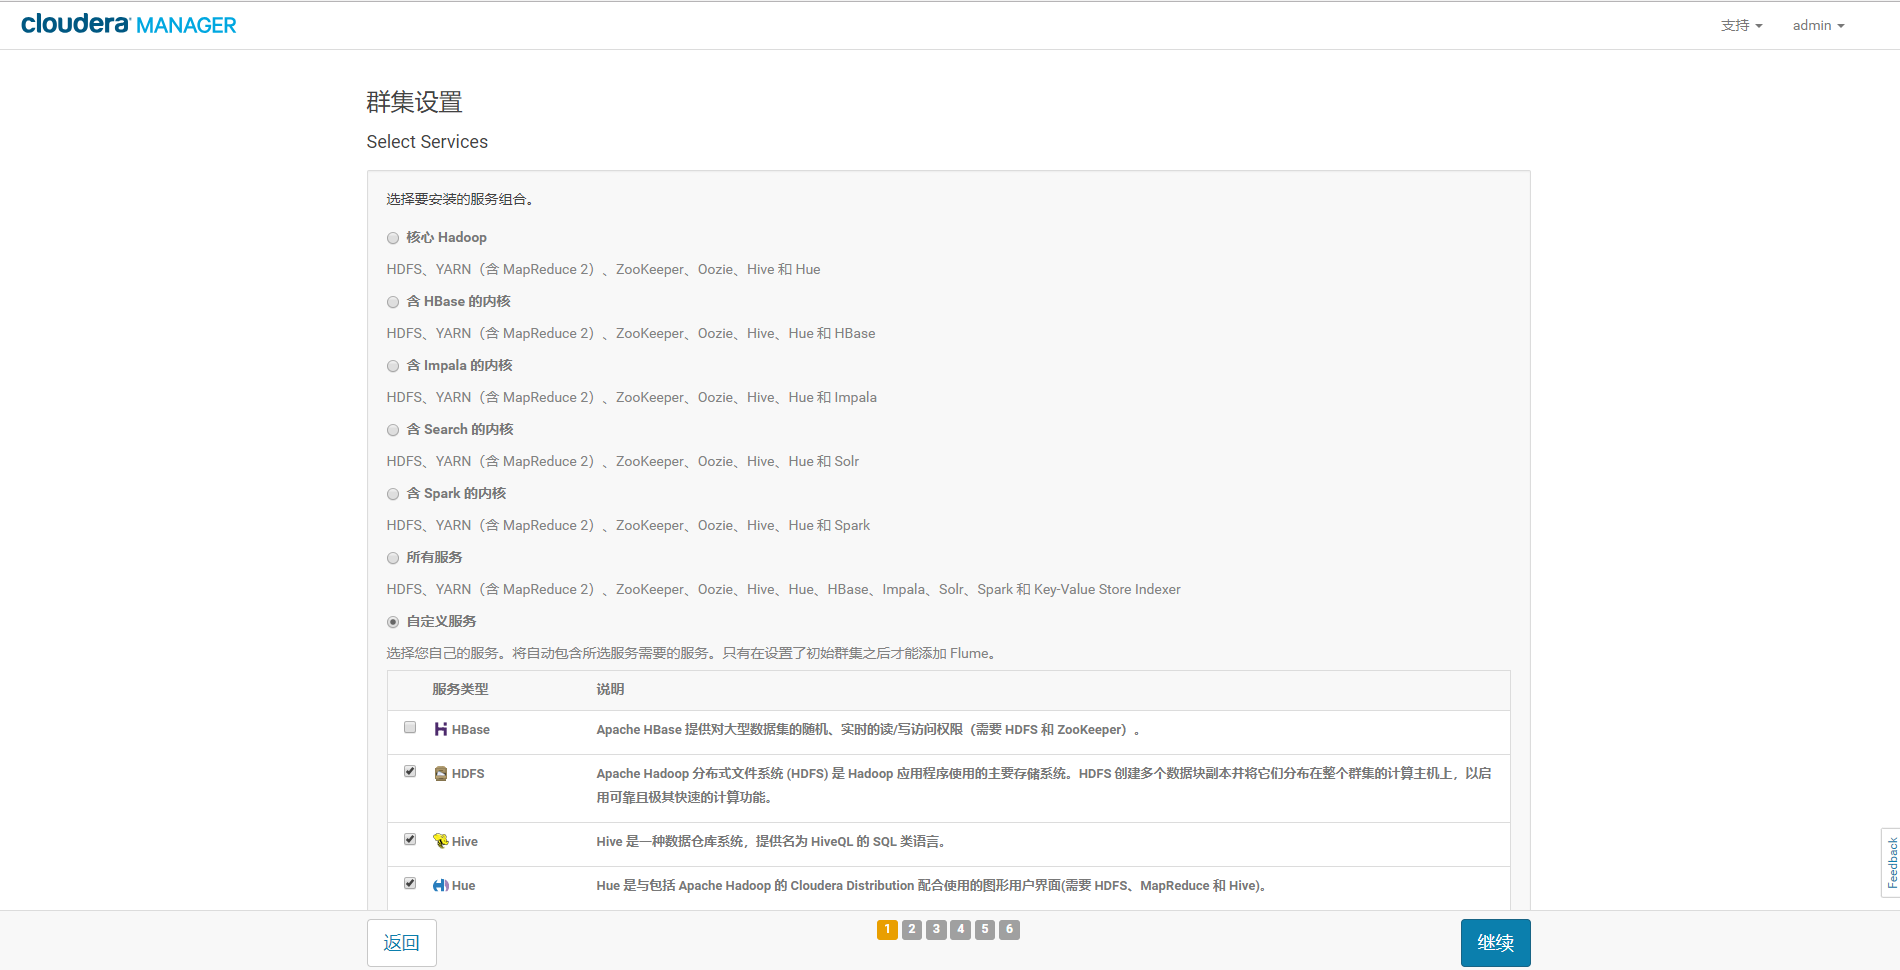
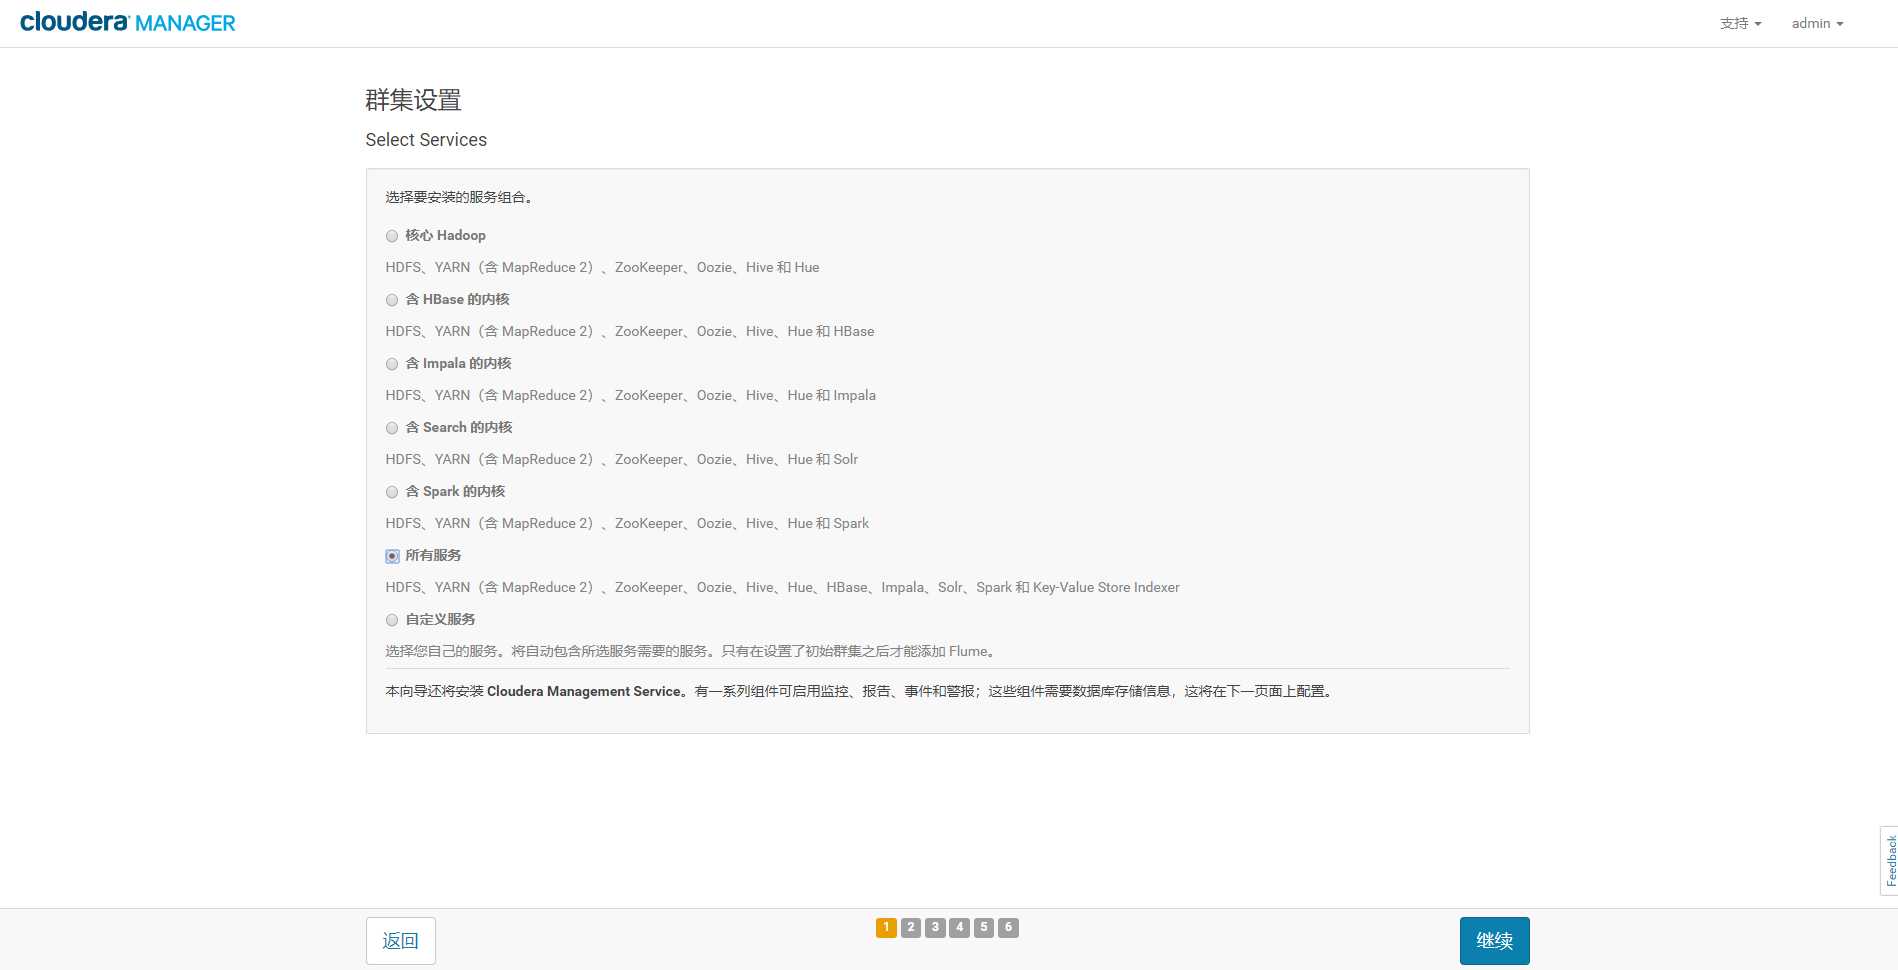
update Cloudera CDH

diff --git a/3.1.大数据/3.1.配置实例/5.Cloudera安装配置实例（CDH5.15.0）/暂存/2.6.安装CDH.md b/3.1.大数据/3.1.配置实例/5.Cloudera安装配置实例（CDH5.15.0）/暂存/2.6.安装CDH.md
@@ -95,14 +95,9 @@ http://xx.xx.xx.xx/cloudera-parcels/cdh5/5.15.0/
 **注：显示为不可用、不适用的组件其实已正确安装，不影响使用。**
 
 ### 3.12.Select Services
-选择要安装的服务组合。这里我们选择 "**自定义服务**"：`HDFS`、`Hive`、`Hue`、`Impala`、`Oozie`、
-`YARN (MR2 Included)`、`ZooKeeper`。**注意：`ZooKeeper`安装一定是选择奇数个节点进行安装**。
+选择要安装的服务组合。这里我们选择"**所有服务**"。**注意：`ZooKeeper`安装一定是选择奇数个节点进行安装**。
 
 ![Select Services](img/15.png)
-
-![自定义服务](img/16.png)
-
-注：因为很多组件现在还用不上，所以没有选择"**所有服务**"。
 
 ### 3.13.自定义角色分配
 
